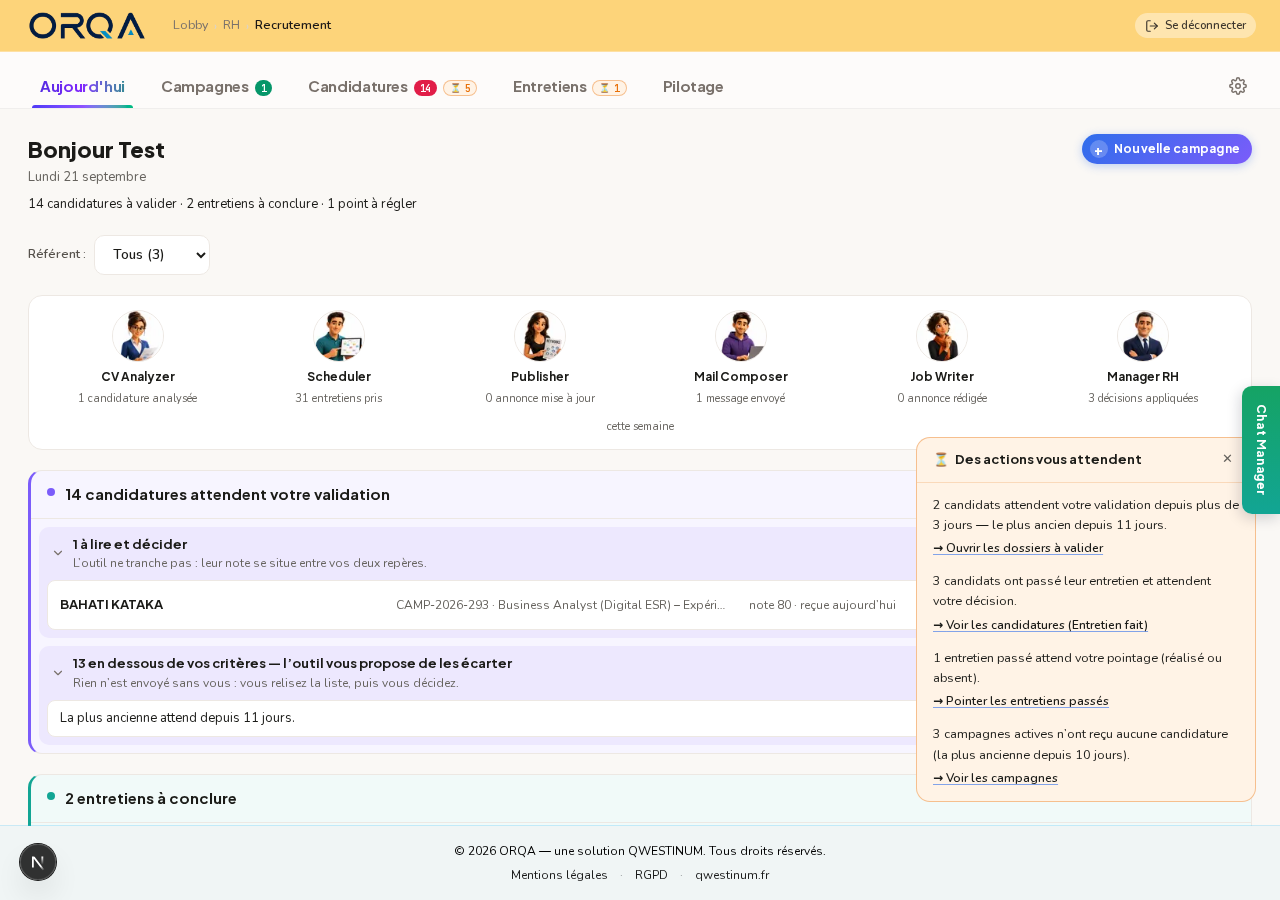
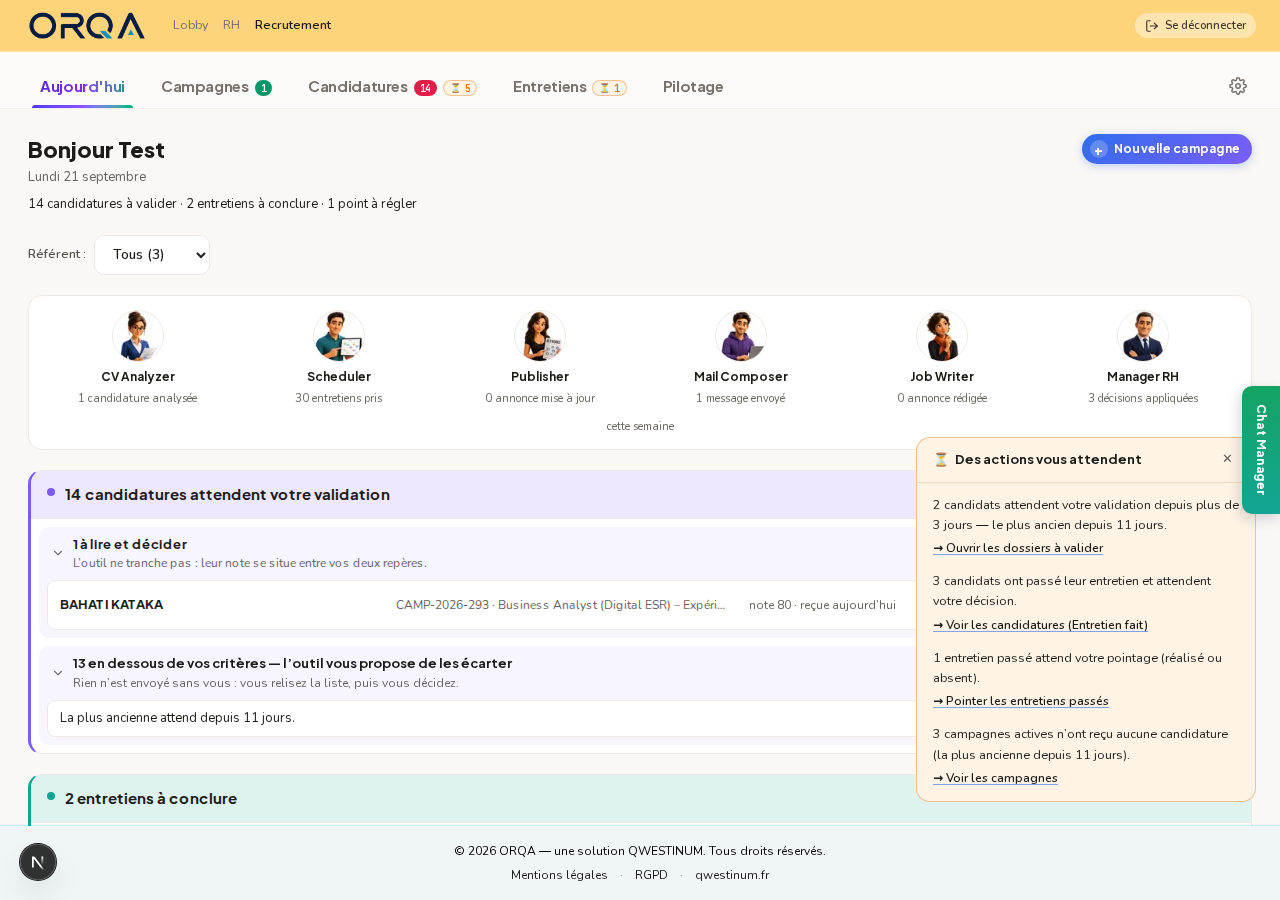
feat(ux): sur Aujourd'hui, la teinte passe du corps à l'en-tête (2 premiers blocs)
Les deux niveaux ÉCHANGENT leur place sur « candidatures à valider » et
« entretiens à conclure » : l'en-tête prend la teinte dense (celle que
portaient les sous-blocs), le corps de la carte redevient blanc, et les
sous-blocs prennent la nuance légère.

Le corps DOIT redevenir blanc : sans ça, les sous-blocs passés à la
nuance légère se confondraient avec lui, et le relief tomberait de trois
niveaux à deux.

Aucune valeur nouvelle — les deux teintes sont celles qui existaient,
seule leur place change. Le contraste AA déjà mesuré sur chacune reste
donc valable (`socle-contraste.test.ts` les vérifie toutes les deux).

Le troisième bloc (« à régler ») garde la teinte normale : il n'a pas de
sous-bloc, l'inversion n'y dirait rien.

2962 tests verts · typecheck propre.

diff --git a/src/components/today/TodayCard.tsx b/src/components/today/TodayCard.tsx
@@ -7,6 +7,16 @@
  *   ② le SOUS-BLOC  — même teinte, un cran plus dense (14 %), repliable
  *   ③ la RANGÉE     — blanc franc, bordure fine, coins arrondis
  *
+ * ── TEINTE INVERSÉE (`teinte="inversee"`) ───────────────────────────────────
+ * Les deux niveaux ÉCHANGENT leur place : l'en-tête prend la teinte dense, le
+ * corps de la carte redevient blanc, et les sous-blocs prennent la nuance
+ * légère. Le relief reste à trois niveaux et dans le même ordre de densité —
+ * c'est l'ACCENT qui se déplace, du contenu vers le titre.
+ *
+ * Les deux teintes restent celles qui existent : aucune valeur nouvelle, donc
+ * le contraste AA déjà mesuré sur chacune reste valable (cf.
+ * `socle-contraste.test.ts`, qui les vérifie toutes les deux).
+ *
  * L'écart entre les trois doit se lire à 50 % de zoom SANS texte : c'est lui
  * qui dit « ceci contient cela » sans qu'on ait à le comprendre. Un trait fin
  * comme seul séparateur ne le disait pas — il séparait sans hiérarchiser.
@@ -30,30 +40,44 @@ export const SUBTINT_PERCENT = 14;
 const tint = (accent: DashColor, pct: number): string =>
   `color-mix(in srgb, ${DASH_COLORS[accent].solid} ${pct}%, var(--dash-surface))`;
 
+/**
+ * Où porte la teinte. `normale` : le corps est teinté, l'en-tête le suit.
+ * `inversee` : l'en-tête porte la teinte dense, le corps redevient blanc.
+ */
+export type TeinteCarte = 'normale' | 'inversee';
+
 export function TodayCard({
   accent,
   title,
   subtitle,
+  teinte = 'normale',
   children,
 }: {
   accent: DashColor;
   title: string;
   subtitle?: string;
+  teinte?: TeinteCarte;
   children: React.ReactNode;
 }) {
+  const inversee = teinte === 'inversee';
   return (
     <section
       style={{
         borderRadius: 14,
         border: '1px solid var(--dash-border)',
         borderLeft: `3px solid ${DASH_COLORS[accent].solid}`,
-        background: tint(accent, TINT_PERCENT),
+        // Inversée, le corps redevient blanc : sans ça les sous-blocs, passés
+        // à la nuance légère, se confondraient avec lui.
+        background: inversee ? 'var(--dash-surface)' : tint(accent, TINT_PERCENT),
         overflow: 'hidden',
       }}
     >
       <header
         className="flex items-start gap-2.5 px-4 py-3"
-        style={{ borderBottom: '1px solid var(--dash-border)' }}
+        style={{
+          borderBottom: '1px solid var(--dash-border)',
+          background: inversee ? tint(accent, SUBTINT_PERCENT) : undefined,
+        }}
       >
         <span
           aria-hidden
@@ -127,9 +151,12 @@ export function TodaySubBlock({
   subtitle,
   count,
   action,
+  teinte = 'normale',
   children,
 }: {
   accent: DashColor;
+  /** Doit suivre celle de la carte qui le contient. */
+  teinte?: TeinteCarte;
   /** Clé de mémorisation du repli, stable d'un rendu à l'autre. */
   id: string;
   title: string;
@@ -154,7 +181,10 @@ export function TodaySubBlock({
     <div
       style={{
         borderRadius: 10,
-        background: tint(accent, SUBTINT_PERCENT),
+        background: tint(
+          accent,
+          teinte === 'inversee' ? TINT_PERCENT : SUBTINT_PERCENT,
+        ),
       }}
     >
       <div className="flex flex-wrap items-center gap-x-3 gap-y-2 px-3 py-2">

diff --git a/src/components/today/TodayBoardView.tsx b/src/components/today/TodayBoardView.tsx
@@ -159,12 +159,18 @@ export function TodayBoardView({
         {pending.validation ? (
           <TodaySkeleton titre="Candidatures à valider" />
         ) : board.validation.total > 0 ? (
+          // ⚠ TEINTE INVERSÉE sur les DEUX PREMIERS blocs : l'en-tête porte
+          // la teinte dense, le corps redevient blanc, les sous-blocs prennent
+          // la nuance légère. Le troisième bloc (« à régler ») garde la teinte
+          // normale — il n'a pas de sous-bloc, l'inversion n'y dirait rien.
           <TodayCard
             accent="purple"
+            teinte="inversee"
             title={PHRASES.validation.titre(board.validation.total)}
           >
             <TodaySubBlock
               accent="purple"
+              teinte="inversee"
               id="validation.aLire"
               count={board.validation.aLire.total}
               title={surTotal(
@@ -191,6 +197,7 @@ export function TodayBoardView({
                 ligne à laquelle s'accrocher. */}
             <TodaySubBlock
               accent="purple"
+              teinte="inversee"
               id="validation.aEcarter"
               count={board.validation.aEcarter.total}
               title={PHRASES.aEcarter.titre(board.validation.aEcarter.total)}
@@ -222,10 +229,12 @@ export function TodayBoardView({
         ) : board.entretiens.total > 0 ? (
           <TodayCard
             accent="teal"
+            teinte="inversee"
             title={PHRASES.entretiens.titre(board.entretiens.total)}
           >
             <TodaySubBlock
               accent="teal"
+              teinte="inversee"
               id="entretiens.aConfirmer"
               count={board.entretiens.aConfirmer.total}
               title={surTotal(
@@ -255,6 +264,7 @@ export function TodayBoardView({
 
             <TodaySubBlock
               accent="teal"
+              teinte="inversee"
               id="entretiens.aDecider"
               count={board.entretiens.aDecider.total}
               title={surTotal(
